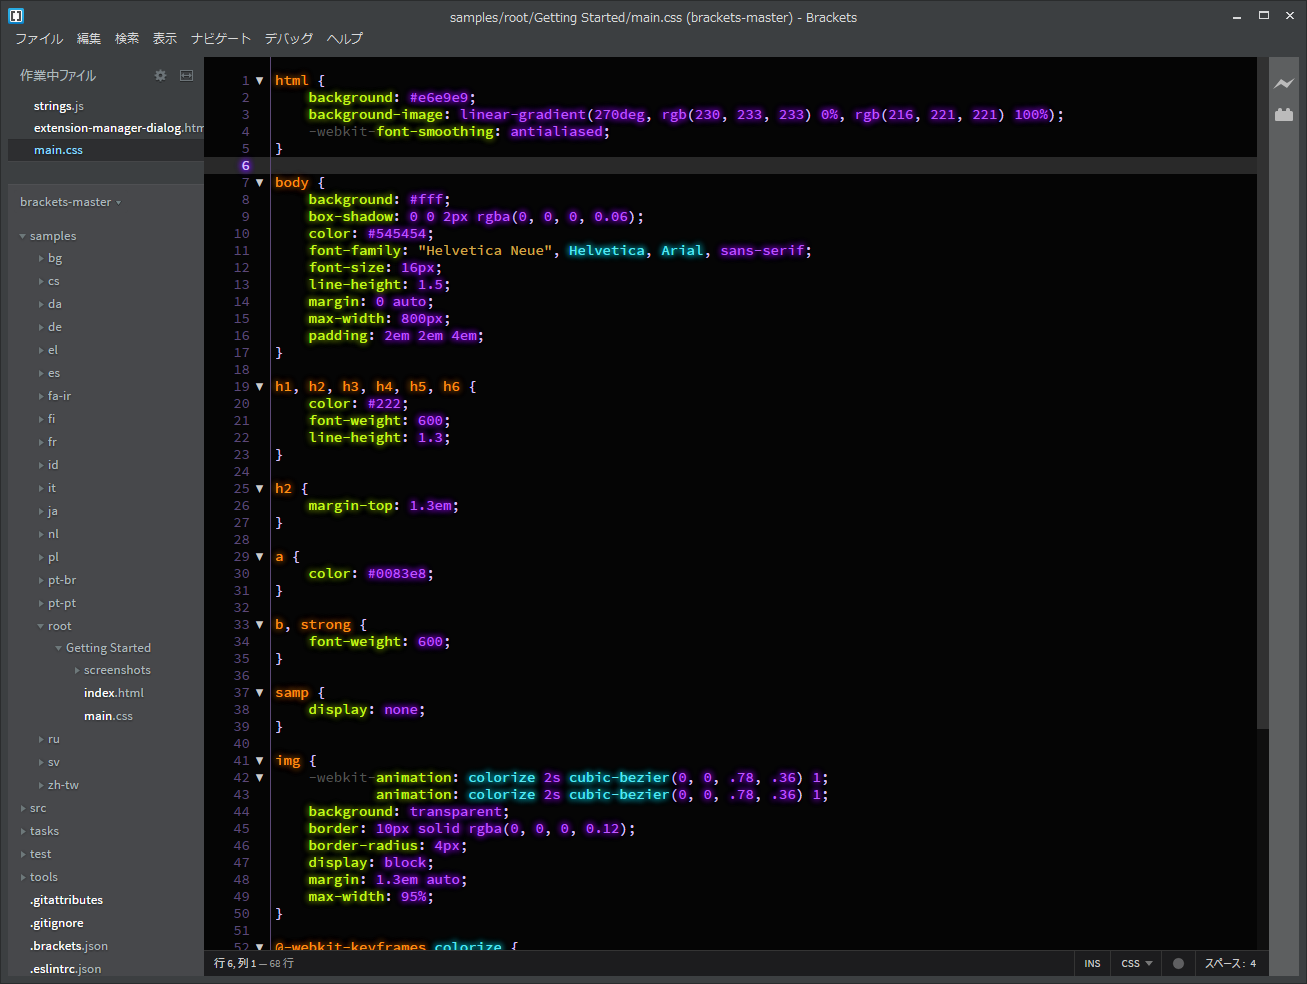
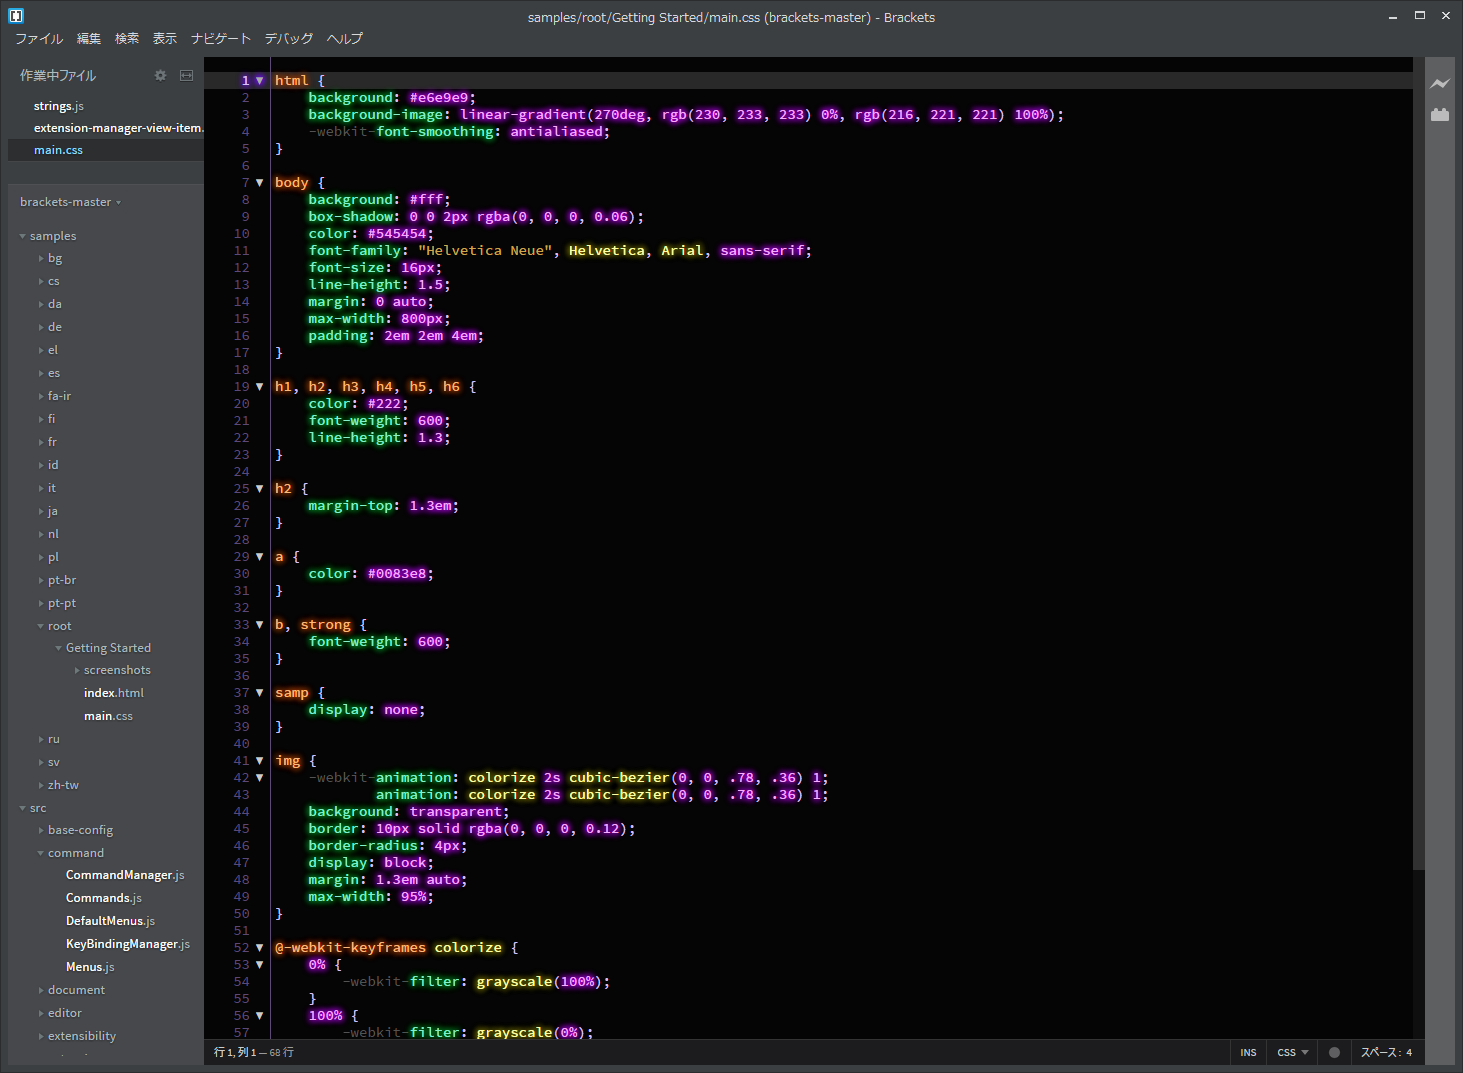
Add files via upload

Changed region(s): [[0.0, 0.0, 1.0, 1.0], [0.8263, 0.9451, 0.9793, 1.0]]

diff --git a/main.less b/main.less
@@ -1,11 +1,4 @@
 // Overall Colors
-@blue: #5be6f2;
-@purple: #bd59fc;
-@lime: #c6f81e;
-@orange: #fd9215;
-@green: #32d89f;
-@red: #f00;
-
 @comment: #989898;
 @string: #d0a74c;
 @string2: #fd55d7;
@@ -26,36 +19,46 @@
 @line-number: @nonactive;
 @line-number-active: @foreground;
 
-.shadow(@color, @offset: 1px, @radius: 8px, @sat: 50%, @dark: 35%) {
-  color: @color !important;
+.shadow(@fontColor, @shadowColor: @fontColor, @dark: 35%, @offset: 1px, @radius: 8px, @sat: 50%) {
+  color: @fontColor !important;
   text-shadow:
-    0+@offset 0+@offset @radius darken(saturate(@color, @sat), @dark),
-    0+@offset 0-@offset @radius darken(saturate(@color, @sat), @dark),
-    0-@offset 0+@offset @radius darken(saturate(@color, @sat), @dark),
-    0-@offset 0-@offset @radius darken(saturate(@color, @sat), @dark),
+    0+@offset 0+@offset @radius darken(saturate(@shadowColor, @sat), @dark),
+    0+@offset 0-@offset @radius darken(saturate(@shadowColor, @sat), @dark),
+    0-@offset 0+@offset @radius darken(saturate(@shadowColor, @sat), @dark),
+    0-@offset 0-@offset @radius darken(saturate(@shadowColor, @sat), @dark),
     !important;
 }
-.large-shadow(@color) {
-  .shadow(@color, @offset: 4px, @radius: 10px, @sat: 50%, @dark: 0%);
-}
+
+.purple-shadow() { .shadow(#f6acff, #c400ff, 5%); }
+.orange-shadow() { .shadow(#fdb87d, #fd6e15, 23%); }
+.yellow-shadow() { .shadow(#ffffa9, #fff72a, 35%); }
+.blue-shadow()   { .shadow(#9cddfa, #0811f5, 0%); }
+.green-shadow()  { .shadow(#85f0cb, #32d85f, 25%); }
+.red-shadow()    { .shadow(#ff3e3e, #f00, 18%); }
 
 .CodeMirror .cm-keyword,
 .CodeMirror .cm-atom,
 .CodeMirror .cm-number, {
-  .shadow(@purple);
+  .purple-shadow();
 }
 .CodeMirror .cm-def,
 .CodeMirror .cm-tag,
 .CodeMirror .cm-qualifier, {
-  .shadow(@orange);
+  .orange-shadow();
 }
-.CodeMirror .cm-variable { .shadow(@blue); }
-.CodeMirror .cm-variable-2 { .shadow(@green); }
+.CodeMirror .cm-variable {
+  .yellow-shadow();
+}
+.CodeMirror .cm-variable-2 {
+  .blue-shadow();
+}
 .CodeMirror .cm-property,
 .CodeMirror .cm-attribute, {
-  .shadow(@lime);
+  .green-shadow();
 }
-.CodeMirror .cm-global-variable { .shadow(@red); }
+.CodeMirror .cm-global-variable {
+  .red-shadow();
+}
 
 .CodeMirror .cm-string { color: @string; }
 .CodeMirror .cm-string-2 { color: @string2; }
